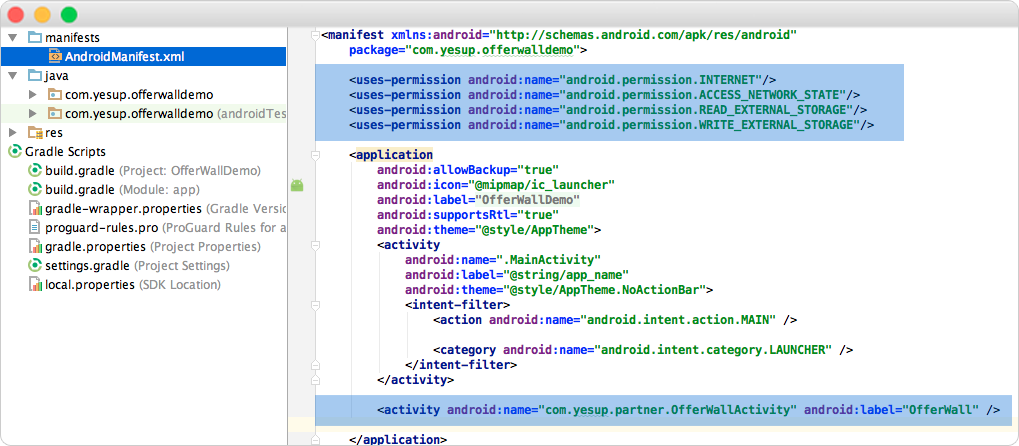
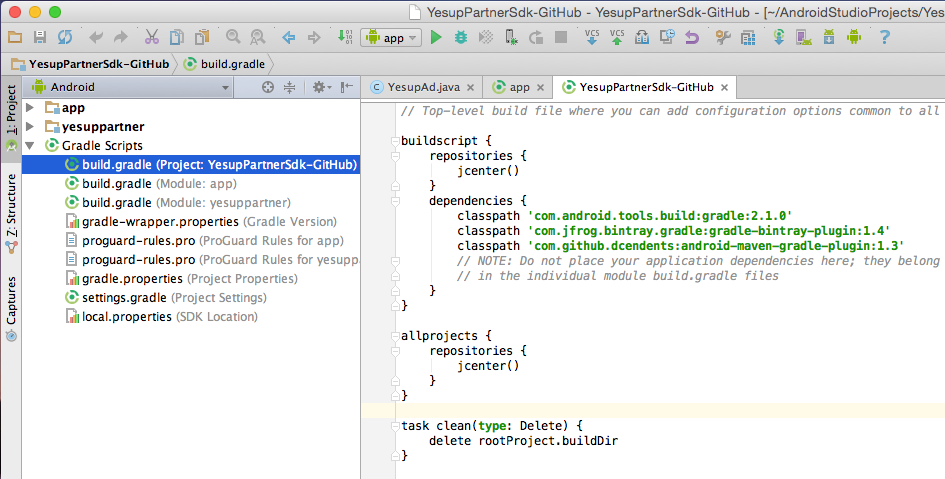
update user guide

diff --git a/README.md b/README.md
@@ -4,7 +4,7 @@ Yesup Partner SDK for Android is the easiest way to integrate your Android app w
 ## Installation
 &nbsp;&nbsp;&nbsp;&nbsp;&nbsp;&nbsp;&nbsp;&nbsp;[Step1: Download SDK adconfigure.xml](#step1)<br/>
 &nbsp;&nbsp;&nbsp;&nbsp;&nbsp;&nbsp;&nbsp;&nbsp;[Step2: Copy adconfigure.xml](#step2)<br/>
-&nbsp;&nbsp;&nbsp;&nbsp;&nbsp;&nbsp;&nbsp;&nbsp;[Step3: Open the app's build.gradle file](#step3)<br/>
+&nbsp;&nbsp;&nbsp;&nbsp;&nbsp;&nbsp;&nbsp;&nbsp;[Step3: Open the project's build.gradle file](#step3)<br/>
 &nbsp;&nbsp;&nbsp;&nbsp;&nbsp;&nbsp;&nbsp;&nbsp;[step4: Make sure that you have used the JCenter" section](#step4)<br/>
 &nbsp;&nbsp;&nbsp;&nbsp;&nbsp;&nbsp;&nbsp;&nbsp;[step5: Add content in dependencies section](#step5)<br/>
 &nbsp;&nbsp;&nbsp;&nbsp;&nbsp;&nbsp;&nbsp;&nbsp;[step6: Add content in AndroidManifest.xml](#step6)<br/>
@@ -21,8 +21,8 @@ Yesup Partner SDK for Android is the easiest way to integrate your Android app w
 ![alt text](https://github.com/yesup/partner-sdk/raw/master/src/img/sdk-user-guide7.png "step2")<br/><br/><br/>
 
 <div id="step3"></div>
-##### **Step 3** In **Android Studio**, open the app's _"build.gradle"_ file in the editor.<br/><br/>
-![alt text](https://github.com/yesup/partner-sdk/raw/master/src/img/sdk-user-guide6.png "step3")<br/><br/><br/>
+##### **Step 3** In **Android Studio**, open the project's _"build.gradle"_ file in the editor.<br/><br/>
+![alt text](https://github.com/yesup/partner-sdk/raw/master/src/img/sdk-user-guide3.png "step3")<br/><br/><br/>
 
 <div id="step4"></div>
 ##### **step 4** Make sure that you have used the JCenter, as follows:
